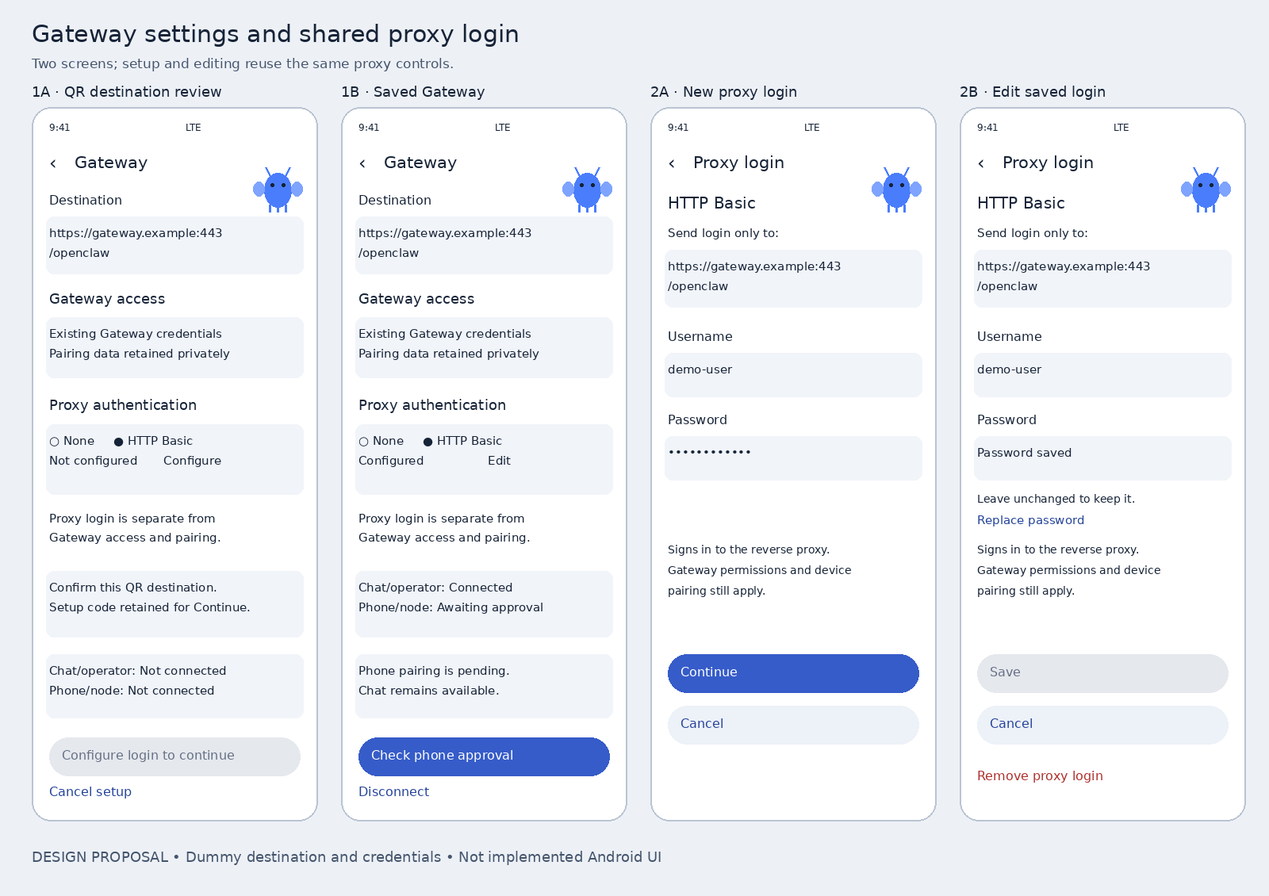
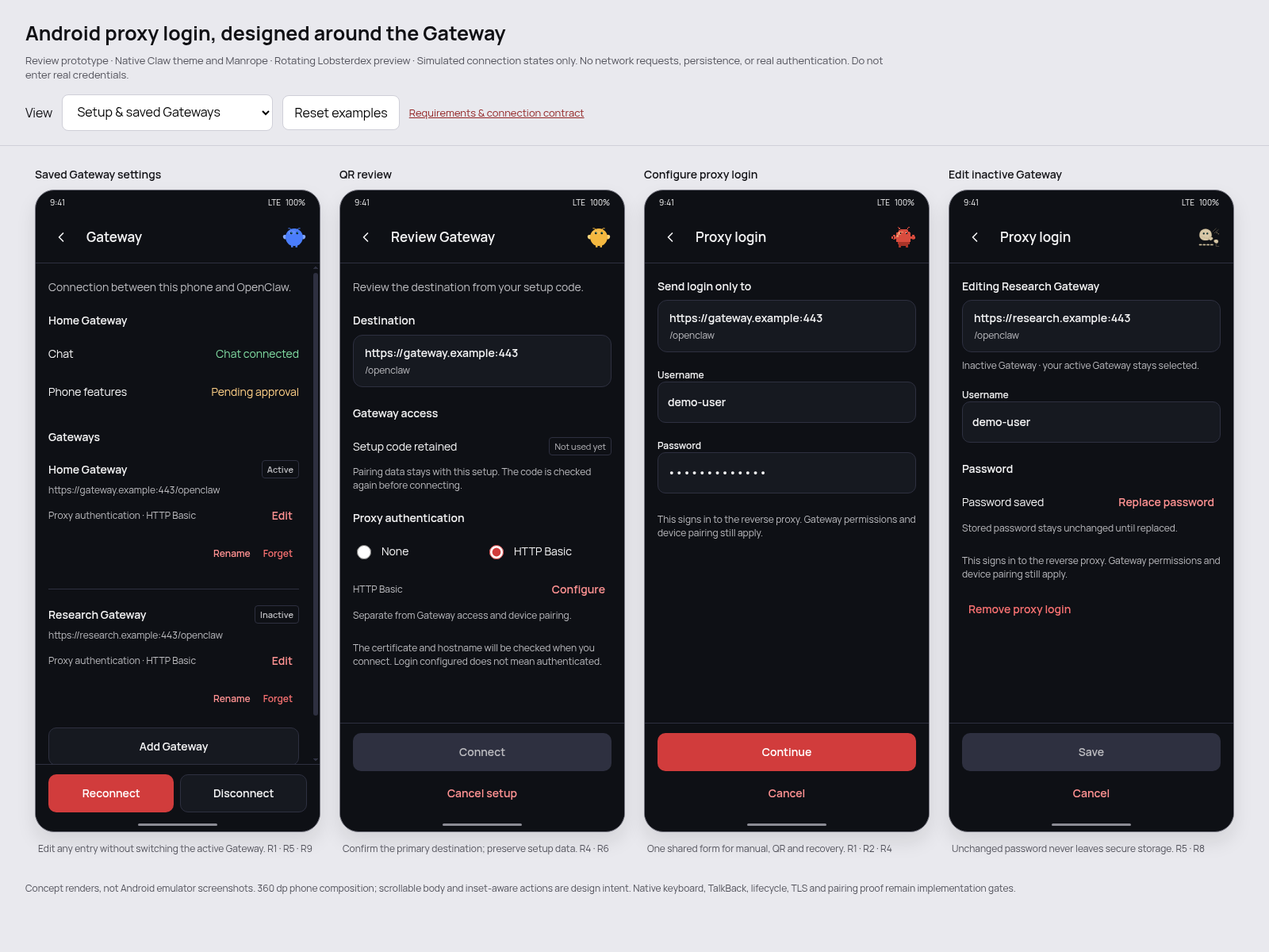
docs(android): align proxy login designs with native Gateway flows

diff --git a/apps/android/design/proxy-login-preview.html b/apps/android/design/proxy-login-preview.html
@@ -1,0 +1,79 @@
+<!doctype html>
+<html lang="en"><head><meta charset="utf-8"><meta name="viewport" content="width=device-width,initial-scale=1"><title>OpenClaw · Android proxy login design</title>
+<style>
+@font-face{font-family:Manrope;src:url('../app/src/main/res/font/manrope_400_regular.ttf');font-weight:400}
+@font-face{font-family:Manrope;src:url('../app/src/main/res/font/manrope_600_semibold.ttf');font-weight:600}
+@font-face{font-family:Manrope;src:url('../app/src/main/res/font/manrope_700_bold.ttf');font-weight:700}
+*{box-sizing:border-box}body{margin:0;font-family:Manrope,sans-serif;background:#e9e9ee;color:#101014}button,select,input{font:inherit}button{cursor:pointer}button:disabled{cursor:default}button:focus-visible,input:focus-visible,select:focus-visible,a:focus-visible{outline:3px solid #0f8f81;outline-offset:3px}header.review{padding:26px 32px 18px;border-bottom:1px solid #cfcfd8}h1{font-size:25px;line-height:1.3;margin:0 0 8px;font-weight:700}header.review p{margin:0;color:#52525b;font-size:13px;max-width:1100px}.tools{display:flex;align-items:center;gap:12px;margin-top:16px;flex-wrap:wrap}.tools select,.tools button{background:white;border:1px solid #cfcfd8;padding:10px 14px;border-radius:8px;min-height:44px}.tools a{color:#922424;font-size:13px}.gallery{display:grid;grid-template-columns:repeat(4,360px);justify-content:center;gap:24px;padding:26px 24px}.specimen>h2{font-size:14px;margin:0 0 10px;font-weight:600}.specimen>p{font-size:12px;line-height:18px;color:#52525b;margin:12px 4px 0}.phone{--canvas:#0e1015;--surface:#161920;--raised:#191c24;--text:#f4f4f5;--muted:#bcbcc0;--subtle:#8b8b94;--border:#2e3040;--primary:#d13c3c;--link:#ff9292;--danger:#f87171;--errorbg:#302126;--success:#80dca2;--warning:#ffd087;--field:#161920;--scale:1;background:var(--canvas);color:var(--text);width:360px;height:810px;border-radius:24px;overflow:hidden;display:flex;flex-direction:column;box-shadow:0 12px 24px #1010141a;border:1px solid #767681}
+.phone.light{--canvas:#f7f7f9;--surface:#fff;--raised:#fff;--text:#101014;--muted:#52525b;--subtle:#61616b;--border:#cfcfd8;--primary:#c23434;--link:#a32c2c;--danger:#b91c1c;--errorbg:#f6e4e5;--success:#15803d;--warning:#925006;--field:#fff}.phone.large{--scale:1.3}.statusbar{height:28px;flex:none;padding:8px 18px 0;display:flex;justify-content:space-between;font-size:10px}.topbar{height:64px;flex:none;display:flex;align-items:center;gap:8px;padding:0 8px;border-bottom:1px solid var(--border)}.topbar h3{font-size:calc(17px * var(--scale));line-height:calc(22px * var(--scale));margin:0;flex:1;font-weight:600}.iconbtn{display:grid;place-items:center;background:none;border:0;color:var(--text);width:48px;height:48px;flex:none}.iconbtn svg{width:20px;height:20px}.mascot{width:30px;height:30px;object-fit:contain}.content{overflow:auto;flex:1;padding:20px 16px 12px;scrollbar-width:thin;scrollbar-color:var(--border) var(--canvas)}.content p{font-size:calc(14px * var(--scale));line-height:1.42;margin:0 0 12px;color:var(--muted)}.section{margin-top:24px}.section:first-child{margin-top:0}.section h4{font-size:calc(14px * var(--scale));line-height:1.3;margin:0 0 8px;font-weight:600}.caption{font-size:calc(12px * var(--scale))!important;line-height:1.4;color:var(--muted)}.destination{padding:12px 14px;background:var(--surface);border:1px solid var(--border);border-radius:12px}.destination strong{font-size:calc(14px * var(--scale));font-weight:600;overflow-wrap:anywhere;display:block;line-height:1.4}.destination span{font-size:calc(12px * var(--scale));overflow-wrap:anywhere;display:block;margin-top:4px;color:var(--muted)}.plainrow{display:flex;align-items:center;justify-content:space-between;gap:12px;min-height:48px;font-size:calc(14px * var(--scale))}.plainrow small{font-size:calc(12px * var(--scale));color:var(--muted)}.divider{border:0;border-top:1px solid var(--border);margin:8px 0}.radios{display:flex;gap:8px;flex-wrap:wrap}.radios label{min-height:48px;display:flex;align-items:center;gap:10px;flex:1;font-size:calc(14px * var(--scale));cursor:pointer}.radios input{accent-color:var(--primary);width:18px;height:18px}.textbtn{background:none;border:none;padding:12px 8px;min-height:48px;color:var(--link);font-size:calc(14px * var(--scale));font-weight:600}.textbtn.danger{color:var(--danger)}.field{margin-top:20px}.field label{display:block;font-size:calc(12px * var(--scale));font-weight:600;margin-bottom:8px}.field input{width:100%;padding:14px 12px;min-height:52px;border:1px solid var(--border);border-radius:10px;background:var(--field);color:var(--text);font-size:calc(14px * var(--scale));line-height:1.3}.field.invalid input{border-color:var(--danger)}.field input:disabled{opacity:.55}.error{margin-top:20px;padding:14px;border-radius:12px;background:var(--errorbg);border:1px solid var(--danger)}.error strong{display:block;font-size:calc(14px * var(--scale));line-height:1.4;color:var(--danger);margin-bottom:6px}.error p{margin:0;font-size:calc(12px * var(--scale));line-height:1.45;color:var(--text)}.neutral{padding:12px 0}.neutral strong{font-size:calc(14px * var(--scale));line-height:1.4;font-weight:600;display:block;margin-bottom:6px}.badge{font-size:11px;color:var(--muted);padding:3px 6px;border:1px solid var(--border);border-radius:4px;white-space:nowrap}.savedentry{padding:12px 0}.entryname{display:flex;align-items:center;justify-content:space-between;font-size:14px;font-weight:600;margin-bottom:6px}.savedentry .address{font-size:12px;line-height:17px;color:var(--muted);overflow-wrap:anywhere;margin:0}.entrytools{display:flex;justify-content:flex-end}.entrytools button{font-size:12px;min-height:48px}.foot{padding:12px 16px 8px;border-top:1px solid var(--border);background:var(--canvas);flex:none}.primary,.secondary{width:100%;min-height:48px;border-radius:10px;font-size:calc(14px * var(--scale));font-weight:600;padding:12px;border:0;line-height:calc(20px * var(--scale))}.primary{background:var(--primary);color:#fff}.primary:disabled{background:var(--border);color:var(--muted)}.secondary{background:var(--surface);border:1px solid var(--border);color:var(--text)}.foot .textbtn{display:block;margin:4px auto 0;min-height:48px}.foot .twocol{display:flex;gap:8px}.gesture{height:16px;display:flex;justify-content:center;align-items:center;flex:none}.gesture:after{content:'';width:100px;height:3px;background:var(--subtle);border-radius:4px}.role{display:flex;align-items:flex-start;justify-content:space-between;gap:16px;padding:12px 0;font-size:14px}.role .detail{display:block;font-size:12px;color:var(--muted);margin-top:4px;line-height:17px}.ok{color:var(--success)}.waiting{color:var(--warning)}.stage{display:flex;gap:12px;align-items:flex-start;padding:10px 0;font-size:13px;line-height:18px}.stage svg{flex:none;width:18px;height:18px;margin-top:1px}.stage small{display:block;color:var(--muted);font-size:12px;margin-top:3px}.stage.pending{color:var(--muted)}.scrollhint{font-size:11px;color:var(--muted);margin:10px 0}.reviewfooter{padding:6px 32px 24px;font-size:12px;color:#52525b}.toast{position:fixed;bottom:16px;left:50%;transform:translateX(-50%);max-width:90vw;background:#161920;color:#f4f4f5;padding:14px 20px;border-radius:10px;font-size:13px;z-index:4}.toast button{background:none;border:0;color:#ff9292;margin-left:14px;min-height:32px}.is-hidden{display:none}
+@media(max-width:1500px){.gallery{grid-template-columns:repeat(2,360px)}}@media(max-width:780px){.gallery{grid-template-columns:minmax(0,360px);padding:20px 8px}.phone{max-width:100%}header.review{padding:20px 16px}.reviewfooter{padding:16px}}
+</style></head><body>
+<header class="review"><h1>Android proxy login, designed around the Gateway</h1><p>Review prototype · Native Claw theme and Manrope · Rotating Lobsterdex preview · Simulated connection states only. No network requests, persistence, or real authentication. Do not enter real credentials.</p><div class="tools"><label for="board">View</label><select id="board"><option value="overview">Setup & saved Gateways</option><option value="recovery">Login & connection recovery</option><option value="errors">TLS, access & setup errors</option><option value="policy">HTTP, role & setup rejection</option><option value="variants">Light, large text & Lobsterdex</option></select><button id="reset">Reset examples</button><a href="../PROXY_LOGIN_DESIGN.md">Requirements & connection contract</a></div></header><main class="gallery" id="gallery"></main><footer class="reviewfooter">Concept renders, not Android emulator screenshots. 360 dp phone composition; scrollable body and inset-aware actions are design intent. Native keyboard, TalkBack, lifecycle, TLS and pairing proof remain implementation gates.</footer><div class="toast is-hidden" id="toast" role="status"></div>
+<script>
+'use strict';
+const $=s=>document.querySelector(s);
+const icon=(name)=>{const p={back:'M15 18l-6-6 6-6',check:'M5 12l4 4L19 6',circle:'M20 12a8 8 0 1 1-8-8',qr:'M3 3h6v6H3z M15 3h6v6h-6z M3 15h6v6H3z M15 15h2v2h-2z M19 19h2v2h-2z',close:'M6 6l12 12M18 6L6 18'};return `<svg aria-hidden="true" viewBox="0 0 24 24" fill="none" stroke="currentColor" stroke-width="2" stroke-linecap="round" stroke-linejoin="round"><path d="${p[name]||p.circle}"/></svg>`};
+const origin='https://gateway.example:443',mount='/openclaw';
+function dest(long=false){return `<div class="destination"><strong>${long?'https://gateway-research-lab.example:443':origin}</strong><span>${long?'/teams/mobile-research/openclaw':mount}</span></div>`}
+function btn(s,action,kind='primary',disabled=false){return `<button class="${kind}" data-act="${action}" ${disabled?'disabled':''}>${s}</button>`}
+function row(mode='basic',draft=false){return `<section class="section"><h4>Proxy authentication</h4><div class="radios" role="radiogroup" aria-label="Proxy authentication"><label><input type="radio" name="mode-${++serial}" ${mode==='none'?'checked':''} data-act="none">None</label><label><input type="radio" name="mode-${serial}" ${mode==='basic'?'checked':''} data-act="configure">HTTP Basic</label></div><div class="plainrow"><small>${mode==='none'?'No proxy login':draft?'Login configured · not connected':'HTTP Basic'}</small>${btn(mode==='none'?'Configure':draft?'Edit':'Configure',draft?'new':'new','textbtn')}</div><p class="caption">Separate from Gateway access and device pairing.</p></section>`}
+function credentials(edit=false,wrong=false,remove=false,long=false){return `<section class="section"><h4>${edit?'Editing Research Gateway':'Send login only to'}</h4>${dest(long)}${edit?'<p class="caption" style="margin-top:8px">Inactive Gateway · your active Gateway stays selected.</p>':''}</section><div class="field"><label>Username<input type="text" value="demo-user" autocomplete="off" autocapitalize="none" spellcheck="false" ${remove?'disabled':''} aria-label="Proxy username" data-field="username"></label></div>${edit?`<section class="section"><h4>Password</h4><div class="plainrow"><span>Password saved</span>${remove?'':btn('Replace password','replace','textbtn')}</div><p class="caption">Stored password stays unchanged until replaced.</p></section>`:`<div class="field ${wrong?'invalid':''}"><label>Password<input type="password" value="dummy-preview" autocomplete="off" ${remove?'disabled':''} aria-label="Proxy password" data-field="password" ${wrong?'aria-invalid="true" aria-describedby="proxy-error"':''}></label></div>`}<section class="section"><p class="caption">This signs in to the reverse proxy. Gateway permissions and device pairing still apply.</p></section>${wrong?`<div class="error" id="proxy-error" role="status"><strong>Proxy login was not accepted.</strong><p>Check your username and password, then continue. No automatic password retries.</p></div>`:''}${remove?`<div class="error" role="status"><strong>Remove proxy login?</strong><p>Device pairing stays saved. This Gateway may require a proxy login before it can reconnect.</p></div>`:''}${edit&&!remove?btn('Remove proxy login','remove','textbtn danger'):''}`}
+function roles(complete=false){return `<section class="section"><h4>Connections</h4><div class="role"><span>Chat<span class="detail">Gateway access accepted</span></span><span class="ok">Connected</span></div><hr class="divider"><div class="role"><span>Phone features<span class="detail">${complete?'Device pairing accepted':'Approve this phone in the Gateway.'}</span></span><span class="${complete?'ok':'waiting'}">${complete?'Connected':'Pending approval'}</span></div></section>`}
+const errors={tls:['Secure connection could not be verified.','Check the certificate and Gateway address. Proxy credentials were not sent.','Check address'],network:['Cannot reach this Gateway.','Automatic retries have stopped. Check your connection, then retry.','Retry'],identity:['Gateway requires a verified user identity.','Ask the administrator to check proxy identity forwarding and Gateway policy.','View guidance'],expired:['Setup code has expired.','Create a new setup code. Your saved Gateway pairing has not been removed.','Scan new code'],setup_rejected:['Setup code was rejected.','The Gateway could not accept this setup. Request a new code; the cause may be expiry, prior use, or revocation.','Scan new code'],unknown:['Access was rejected before the Gateway connected.','HTTP 403. Ask the administrator to check access policy. This does not confirm a wrong proxy password.','View guidance'],rejected:['Gateway access was rejected.','The Gateway rejected this account or its role. Proxy login cannot grant additional permissions.','View guidance']};
+function errorBody(kind){let e=errors[kind];return `<section class="section"><h4>Destination</h4>${dest()}</section><section class="section"><h4>Proxy authentication</h4><p>HTTP Basic · login configured</p></section><div class="error" role="status"><strong>${e[0]}</strong><p>${e[1]}</p></div><section class="section"><h4>Connections</h4><div class="plainrow"><span>Chat</span><small>Not connected</small></div><div class="plainrow"><span>Phone features</span><small>Not connected</small></div></section>`}
+function stages(which){return `<section class="section"><h4>Destination</h4>${dest()}</section><section class="section"><h4>${which==='tls'?'Connecting securely':which==='proxy'?'Signing in to proxy':'Connecting to Gateway'}</h4><p class="caption">Cancel stops this attempt. Saved pairing stays intact.</p>${[['tls','Secure connection',which==='tls'?'Checking certificate and hostname':'Certificate and hostname verified'],['proxy','Proxy login',which==='tls'?'Waiting for secure connection':which==='proxy'?'Checking login':'Accepted by proxy'],['roles','Gateway access',which==='roles'?'Checking Chat and Phone independently':'Not checked yet']].map(([id,title,detail],i)=>`<div class="stage ${i>(which==='tls'?0:which==='proxy'?1:2)?'pending':''}">${icon(i<(which==='tls'?0:which==='proxy'?1:2)?'check':'circle')}<span>${title}<small>${detail}</small></span></div>`).join('')}</section><section class="section"><h4>Connections</h4><div class="plainrow"><span>Chat</span><small>Not connected</small></div><div class="plainrow"><span>Phone features</span><small>Not connected</small></div></section>`}
+function registry(){return `<p>Connection between this phone and OpenClaw.</p><section class="section"><h4>Home Gateway</h4><div class="plainrow"><span>Chat</span><span class="ok">Chat connected</span></div><div class="plainrow"><span>Phone features</span><span class="waiting">Pending approval</span></div></section><section class="section"><h4>Gateways</h4><div class="savedentry"><div class="entryname">Home Gateway <span class="badge">Active</span></div><p class="address">${origin}${mount}</p><div class="plainrow"><small>Proxy authentication · HTTP Basic</small>${btn('Edit','edit_active','textbtn')}</div><div class="entrytools">${btn('Rename','notice','textbtn')}${btn('Forget','notice','textbtn danger')}</div></div><hr class="divider"><div class="savedentry"><div class="entryname">Research Gateway <span class="badge">Inactive</span></div><p class="address">https://research.example:443/openclaw</p><div class="plainrow"><small>Proxy authentication · HTTP Basic</small>${btn('Edit','edit','textbtn')}</div><div class="entrytools">${btn('Rename','notice','textbtn')}${btn('Forget','notice','textbtn danger')}</div></div></section>${btn('Add Gateway','qr','secondary')}<p class="caption" style="margin-top:12px">Scan or paste a setup code to add another Gateway.</p>`}
+function gatewayReview(manual=false,draft=false){return `<p>${manual?'Review the address before connecting.':'Review the destination from your setup code.'}</p><section class="section"><h4>Destination</h4>${dest()}</section><section class="section"><h4>Gateway access</h4>${manual?'<p class="caption">Existing token/password controls stay here, separate from proxy login.</p>':'<div class="plainrow"><span>Setup code retained</span><span class="badge">Not used yet</span></div><p class="caption">Pairing data stays with this setup. The code is checked again before connecting.</p>'}</section>${row('basic',draft)}<section class="section"><p class="caption">The certificate and hostname will be checked when you connect. Login configured does not mean authenticated.</p></section>`}
+let serial=0;
+const configs={
+ registry:['Saved Gateway settings','Gateway',registry,()=>`<div class="twocol">${btn('Reconnect','connecting_tls')}${btn('Disconnect','cancel','secondary')}</div>`,'Edit any entry without switching the active Gateway. R1 · R5 · R9'],
+ qr:['QR review','Review Gateway',()=>gatewayReview(false,false),()=>btn('Connect','connecting_tls','primary',true)+btn('Cancel setup','cancel','textbtn'),'Confirm the primary destination; preserve setup data. R4 · R6'],
+ manual:['Manual review','Review Gateway',()=>gatewayReview(true,true),()=>btn('Connect','connecting_tls')+btn('Cancel setup','cancel','textbtn'),'Same proxy row; existing Gateway fields remain separate. R1 · R2 · R10'],
+ qr_ready:['Resume QR setup','Review Gateway',()=>gatewayReview(false,true),()=>btn('Connect','connecting_tls')+btn('Cancel setup','cancel','textbtn'),'Continue stages login; Connect admits the retained setup. R5 · R6'],
+ new:['Configure proxy login','Proxy login',()=>credentials(),()=>btn('Continue','continue')+btn('Cancel','cancel_form','textbtn'),'One shared form for manual, QR and recovery. R1 · R2 · R4'],
+ edit:['Edit inactive Gateway','Proxy login',()=>credentials(true),()=>btn('Save','save','primary',true)+btn('Cancel','cancel_form','textbtn'),'Unchanged password never leaves secure storage. R5 · R8'],
+ edit_active:['Edit active Gateway','Proxy login',()=>credentials(true).replace('Research Gateway','Home Gateway').replace('Inactive Gateway · your active Gateway stays selected.','Active Gateway · enabled connections will reconnect.'),()=>btn('Save','save','primary',true)+btn('Cancel','cancel_form','textbtn'),'Save replaces proxy state and drains enabled sessions. R5 · R8'],
+ replace:['Replace saved password','Proxy login',()=>credentials(false).replace('Send login only to','Editing Research Gateway'),()=>btn('Save','save')+btn('Cancel','cancel_form','textbtn'),'Valid edit can be saved independently of connection success. R5'],
+ wrong:['Proxy login rejected','Proxy login',()=>credentials(false,true),()=>btn('Continue','continue')+btn('Cancel','cancel_form','textbtn'),'Stable error; explicit submission only. R7 · R8'],
+ remove:['Remove proxy login','Proxy login',()=>credentials(true,false,true),()=>btn('Remove proxy login','removed')+btn('Keep proxy login','keep_login','textbtn'),'Durable removal retires grants, preserves pairing. R5 · R8'],
+ partial:['Chat works; Phone pending','Gateway',()=>`<section class="section"><h4>Home Gateway</h4>${dest()}</section>${roles()}<section class="section"><h4>Phone approval is pending</h4><p class="caption">Chat remains available. Cancel waiting stops Phone checks for this attempt.</p></section>`,()=>btn('Check Phone approval','notice')+btn('Cancel waiting','cancel_phone','textbtn'),'Independent role/token/pairing results. R3 · R8 · R9'],
+ connected:['Gateway connections accepted','Gateway',()=>`<section class="section"><h4>Home Gateway</h4>${dest()}</section>${roles(true)}`,()=>btn('Done','registry'),'Only Gateway admission establishes readiness. R3 · R9'],
+ connecting_tls:['Verified TLS first','Gateway',()=>stages('tls'),()=>btn('Cancel attempt','cancel','secondary'),'No credentials before certificate/hostname validation. R4 · R8'],
+ connecting_proxy:['Caddy proxy gate','Gateway',()=>stages('proxy'),()=>btn('Cancel attempt','cancel','secondary'),'Basic to Caddy only; upstream stripping is required. R2 · R3'],
+ connecting_roles:['Independent Gateway admission','Gateway',()=>stages('roles'),()=>btn('Cancel attempt','cancel','secondary'),'Accepted proxy login cannot bypass roles or pairing. R3 · R9'],
+};
+for(const kind of Object.keys(errors))configs[kind]=[errors[kind][0].replace('.',''),'Gateway',()=>errorBody(kind),()=>btn(errors[kind][2],kind==='network'?'connecting_tls':(kind==='expired'||kind==='setup_rejected')?'scan':'notice')+btn('Cancel attempt','cancel','textbtn'),kind==='expired'?'Known payload expiry, distinct from opaque setup rejection. R6 · R7':'Typed failure, terminal pause, explicit recovery. R4 · R7 · R8'];
+configs.configure_saved=['Configure saved Gateway proxy login','Proxy login',()=>credentials(false).replace('Send login only to','Editing Research Gateway'),()=>btn('Save','save')+btn('Cancel','cancel_form','textbtn'),'Save affects only this existing Gateway; pairing stays saved. R4 · R5'];
+configs.qr_none=['QR review · no proxy login','Review Gateway',()=>gatewayReview(false,false),()=>btn('Connect','connecting_tls')+btn('Cancel setup','cancel','textbtn'),'None remains supported without protocol auth changes. R10'];
+configs.qr_none[2]=()=>gatewayReview(false,false).replace(/<section class="section"><h4>Proxy authentication[\s\S]*?<\/section>/,row('none'));
+configs.manual_none=['Manual review · no proxy login','Review Gateway',()=>gatewayReview(true,false).replace(/<section class="section"><h4>Proxy authentication[\s\S]*?<\/section>/,row('none')),()=>btn('Connect','connecting_tls')+btn('Cancel setup','cancel','textbtn'),'Manual None path preserves existing Gateway auth. R10'];
+configs.manual_ready=['Resume manual setup','Review Gateway',()=>gatewayReview(true,true),()=>btn('Connect','connecting_tls')+btn('Cancel setup','cancel','textbtn'),'Retains original manual Gateway access. R1 · R2 · R10'];
+configs.registry_removed=['Proxy login removed','Gateway',()=>registry().replace('Proxy authentication · HTTP Basic</small>'+btn('Edit','edit','textbtn'),'Proxy authentication · None</small>'+btn('Configure','configure_research','textbtn')),()=>btn('Done','registry'),'Proxy login removed; pairing remains saved. R5 · R8'];
+configs.partial_cancelled=['Phone wait cancelled','Gateway',()=>configs.partial[2]().replace('Pending approval','Wait cancelled').replace('Approve this phone in the Gateway.','Phone approval remains pending at the Gateway.').replace('Phone approval is pending','Phone checks stopped').replace('Chat remains available. Cancel waiting stops Phone checks for this attempt.','Chat remains available. Check again starts a new bounded wait.'),()=>btn('Check again','partial')+btn('Done','registry','textbtn'),'Cancellation does not revoke server pairing or disconnect Chat. R8 · R9'];
+const boards={overview:[['registry'],['qr'],['new'],['edit']],recovery:[['wrong'],['connecting_proxy'],['partial'],['remove']],errors:[['tls'],['network'],['identity'],['expired']],policy:[['unknown'],['rejected'],['setup_rejected'],['connecting_roles']],variants:[['qr_ready','light'],['new','light'],['new','large'],['edit','egg']]};
+const mascots=['mascot-blue.svg','mascot-gold.svg','mascot-pixel.svg','mascot-flatpack.svg','mascot-crimson.svg']; let mascotOffset=0; let current=[]; const drafts=new Map();
+function render(only){serial=0;const pieces=current.map(([mode,variant],i)=>{const ctx=current[i][2];if(mode==='edit_active')ctx.entry='active';if(mode==='edit')ctx.entry='research';let c=configs[mode];let body=c[2]();if(variant==='large')body=credentials(false,false,false,true)+`<p class="scrollhint">Large text · scroll to continue reading.</p>`;if(['edit','edit_active','replace','remove','configure_saved'].includes(mode)){if(ctx.entry==='active'){body=body.replaceAll('Research Gateway','Home Gateway').replace('Inactive Gateway · your active Gateway stays selected.','Active Gateway · enabled connections will reconnect.');}else{body=body.replaceAll(origin,'https://research.example:443');}}if(mode==='registry_removed'&&ctx.entry==='active'){body=registry().replace('Proxy authentication · HTTP Basic</small>'+btn('Edit','edit_active','textbtn'),'Proxy authentication · None</small>'+btn('Configure','configure_active','textbtn')).replace('class="ok">Chat connected','class="badge">Not connected').replace('class="waiting">Pending approval','class="badge">Not connected');}return `<article class="specimen" data-index="${i}"><h2>${c[0]}${variant==='light'?' · light':variant==='large'?' · 130% text':variant==='egg'?' · Lobsterdex option':''}</h2><div class="phone ${variant||''}"><div class="statusbar"><span>9:41</span><span>LTE &nbsp; 100%</span></div><div class="topbar"><button class="iconbtn" data-act="back" aria-label="Back">${icon('back')}</button><h3 tabindex="-1">${c[1]}</h3><button class="iconbtn" data-act="mascot" aria-label="Preview alternate mascot"><img class="mascot" src="${mascots[(i+mascotOffset)%mascots.length]}" alt=""></button></div><div class="content">${body}</div><div class="foot">${c[3]()}</div><div class="gesture"></div></div><p>${c[4]}</p></article>`}); if(Number.isInteger(only)){const old=$('#gallery').children[only];old.outerHTML=pieces[only];restore(only);$('#gallery').children[only].querySelector('h3').focus({preventScroll:true});}else{$('#gallery').innerHTML=pieces.join('');current.forEach((_,i)=>restore(i));}}
+function board(value){mascotOffset=Object.keys(boards).indexOf(value);$('#board').value=value;drafts.clear();current=boards[value].map(x=>[x[0],x[1],{}]);render()}
+function toast(s){$('#toast').innerHTML=`${s}<button data-dismiss>Dismiss</button>`;$('#toast').classList.remove('is-hidden')}
+function restore(i){const el=$('#gallery').children[i],mode=current[i][0];let draft=drafts.get(i);if(mode==='replace'&&!draft){draft={username:'demo-user',password:''};drafts.set(i,draft);}if(draft){for(const key of ['username','password']){const input=el.querySelector(`[data-field="${key}"]`);if(input)input.value=draft[key]||'';}}validate(i);}
+function validate(i){const el=$('#gallery').children[i],mode=current[i][0],user=el.querySelector('[data-field="username"]'),pw=el.querySelector('[data-field="password"]');const primary=el.querySelector('.foot .primary');if(!user||!primary||mode==='remove')return;let valid=Boolean(user.value.trim())&&Boolean(pw&&pw.value);if(mode==='edit'||mode==='edit_active')valid=false;primary.disabled=!valid;}
+$('#gallery').addEventListener('input',e=>{const el=e.target.closest('.specimen');if(!el||!e.target.matches('[data-field]'))return;const i=Number(el.dataset.index);let draft=drafts.get(i)||{username:'demo-user',password:''};for(const key of ['username','password']){const input=el.querySelector(`[data-field="${key}"]`);if(input)draft[key]=input.value;}drafts.set(i,draft);validate(i);});
+$('#gallery').addEventListener('click',e=>{const b=e.target.closest('[data-act]');if(!b)return;const a=b.dataset.act,el=b.closest('.specimen'),i=Number(el.dataset.index),mode=current[i][0],ctx=current[i][2];if(a==='mascot'){let img=b.querySelector('img');const old=img.src.split('/').pop();img.src=mascots[(mascots.indexOf(old)+1)%mascots.length];return;}
+let next=a;
+if(a==='notice'||a==='scan'){toast(a==='scan'?'Demo: scanner would reopen. No camera or network is used.':'Demo action only. See the design document for the required Gateway behavior.');return;}
+if(a==='configure_active'||a==='configure_research'){ctx.parent=mode;ctx.entry=a==='configure_active'?'active':'research';next='configure_saved';}
+if(a==='configure'||a==='new'){ctx.parent=mode;ctx.origin=mode.startsWith('manual')?'manual':mode==='wrong'?'recovery':'qr';next='new';}
+if(a==='none'){next=mode.startsWith('manual')?'manual_none':'qr_none';drafts.delete(i);}
+if(a==='continue'){next=(ctx.origin==='recovery'||mode==='wrong')?'connecting_tls':ctx.origin==='manual'?'manual_ready':'qr_ready';drafts.delete(i);}
+if(a==='replace'){ctx.parent=mode;ctx.editing=true;const user=el.querySelector('[data-field="username"]');drafts.set(i,{username:user?user.value:'demo-user',password:''});next='replace';}
+if(a==='edit'||a==='edit_active'){ctx.parent='registry';ctx.entry=a==='edit_active'?'active':'research';ctx.editing=true;next=a;}
+if(a==='remove'){ctx.removeParent=mode;next='remove';}if(a==='keep_login'){next=ctx.removeParent||'edit';}
+if(a==='cancel_form'||a==='back'){next=(mode==='remove'?ctx.removeParent:ctx.parent)||(mode==='new'?'qr':mode==='wrong'?'registry':'registry');drafts.delete(i);}
+if(a==='cancel'){next='registry';drafts.delete(i);}
+if(a==='save'){next='registry';drafts.delete(i);toast('Simulated: login saved. Gateway connection has not been verified.');}
+if(a==='removed'){next='registry_removed';drafts.delete(i);toast('Simulated: proxy login removed; device pairing retained.');}
+if(a==='cancel_phone'){next='partial_cancelled';toast('Simulated: Phone wait cancelled; Chat remains connected.');}
+
+if(!Object.hasOwn(configs,next)){toast('This action is specified in the design document.');return;}current[i][0]=next;render(i);
+});$('#toast').addEventListener('click',()=>$('#toast').classList.add('is-hidden'));$('#board').addEventListener('change',()=>board($('#board').value));$('#reset').addEventListener('click',()=>board($('#board').value));const q=new URLSearchParams(location.search).get('board');board(Object.hasOwn(boards,q)?q:'overview');
+</script></body></html>

diff --git a/apps/android/PROXY_LOGIN_DESIGN.md b/apps/android/PROXY_LOGIN_DESIGN.md
@@ -91,20 +91,37 @@ configuration. These are separate from Gateway protocol authentication.
 
 ## Two screen wireframes
 
-These are conceptual wireframes, not screenshots of implemented UI. The drawn
-boards use synthetic destinations and credentials; colors and spacing are proposals,
-not a claim that the current Android theme renders this way.
+These are design renders and text wireframes, not screenshots of implemented
+Android UI. The earlier blue-pill boards have been replaced with the incumbent
+Android Claw visual system: bundled Manrope, default dark and companion light
+palettes, red primary actions, 10 dp controls, 12 dp panels, and 48 dp targets.
+The proposal preserves the existing Gateway settings registry and its Rename,
+Forget, Reconnect, Disconnect, and Add Gateway boundaries. It adds scoped proxy
+controls rather than replacing the screen with a new login visual identity.
 
-![Gateway setup, saved Gateway editing, and shared proxy login](design/proxy-login-overview.png)
+[Open the offline review prototype](design/proxy-login-preview.html). Its controls
+use dummy data and simulated transitions only; it sends no requests and stores
+nothing durably. The review wrapper and requirement annotations are outside the
+proposed Android screens. Browser pixels approximate native dp/sp; the renders do
+not prove native layout, keyboard, TalkBack, TLS, or Gateway behavior.
 
-![Rejected proxy login, removal confirmation, and setup recovery](design/proxy-login-recovery.png)
+![Gateway settings, QR review, and shared proxy login](design/proxy-login-overview.png)
+
+![Proxy rejection, Caddy connection stage, partial pairing, and removal](design/proxy-login-recovery.png)
+
+![TLS, network, identity, and known setup expiry](design/proxy-login-errors.png)
+
+![Unknown HTTP rejection, Gateway role rejection, opaque setup rejection, and admission](design/proxy-login-policy.png)
+
+![Light theme, large text, long destination, and rotating Lobsterdex previews](design/proxy-login-variants.png)
 
 ### Layout and interaction detail
 
 The boards depict two screen types with state variants, not additional navigation
 screens. Manual setup uses the same destination review and proxy row as QR review.
 Existing endpoint and Gateway credential controls remain owned by their current
-containers; the shaded Gateway-access block is a placeholder for those controls.
+containers; review renders describe that retained access rather than introducing
+proxy inputs into the Gateway credential fields.
 
 - Destination: show the confirmed scheme, host, effective port, and mount path in a
   wrapping, read-only block. Do not truncate away the host or route; long destinations
@@ -144,26 +161,95 @@ containers; the shaded Gateway-access block is a placeholder for those controls.
   landscape/foldable layouts wrap rather than clip. Removal is identified by text,
   not color alone. Screen readers announce saved-password status without a secret.
 
-### Optional Lobsterdex detail
+### Lobsterdex detail
 
-The rendered option replaces the decorative claw mark with a small static blue
-lobster, using the existing `blue` shell/claw colors in
-[`lobster-pet-palettes.ts`](../../ui/src/components/lobster-pet-palettes.ts).
-The drawn silhouette is a concept, not an exact port of the Control UI sprite.
-A final native asset must reuse approved artwork or receive artwork approval.
+The preview rotates a different character across each specimen and shifts the
+sequence across screenshot boards. Blue, Gold, Pixel, Flatpack, and Crimson are
+source-derived assets, not new hand-drawn silhouettes. Their small static presence
+in the trailing header keeps the existing layout, colors, and component vocabulary.
+Changing a character never communicates connection or security status.
 
-Proposed Easter egg: tapping the decorative mascot five times cycles a small
-approved Lobsterdex character set for this screen visit. Keep the selection in
-memory only; no new storage, network fetch, discovery tracking, or credential-derived
-selection. The default remains the normal brand mark unless this optional detail
-is approved. Expose an accessible “Change mascot” action so the hidden gesture is
-not the only way to use it. Mascot changes must not move fields, discard input,
-start connections, or change error/status announcements. Keep it static during
-entry and errors; respect reduced motion if animation is approved later. The
-mascot never represents TLS trust, login success, or Gateway permissions.
+- Blue, Gold, and Crimson use neutral `renderLobsterSvg` dome/claws/eyes from
+  [`lobster-pet-look.ts`](../../ui/src/components/lobster-pet-look.ts) with perky
+  antennae from [`lobster-pet-sprites.ts`](../../ui/src/components/lobster-pet-sprites.ts).
+  Their shell/claw colors come from
+  [`lobster-pet-palettes.ts`](../../ui/src/components/lobster-pet-palettes.ts).
+- Pixel uses that source's `PIXEL_LOBSTER` geometry; Flatpack uses
+  [`FLATPACK_LOBSTER`](../../ui/src/components/lobster-pet-sprites-wild.ts).
+  Open eyes are frozen for deterministic renders. No product code is executed to
+  build the design assets.
+- The normal brand asset is the static geometry from
+  [`favicon.svg`](../../ui/public/favicon.svg), already owned natively by
+  [`OpenClawMascot.kt`](app/src/main/java/ai/openclaw/app/ui/design/OpenClawMascot.kt).
+  It remains available as the baseline; character rotation is a proposed option.
 
-This is a separable design option, not a requirement for the proxy-login fix.
-The renders preview the alternate mascot enabled.
+Proposed Easter egg: the chosen decorative character remains stable for the current
+screen visit and rotates on the next visit, rather than changing during credential
+entry, retry, or error rendering. A five-tap gesture may advance it, with an
+accessible Change mascot action as the alternative. Preview taps advance immediately
+to make the option reviewable. Keep selection in memory only: no new persistence,
+network fetch, collection tracking, credential-derived seed, or navigation effect.
+Do not move fields, discard input, trigger connections, or change error announcements.
+Keep it static and respect reduced motion if animation is approved later. This is
+separable from the login fix and still needs approval before native implementation.
+
+### Connection contract attached to the screens
+
+Configured, saved, proxy accepted, and Gateway connected are distinct facts.
+The following is the intended flow; the prototype only displays its states.
+
+```mermaid
+flowchart TD
+    A[Manual or QR destination review] --> B[Proxy login draft or existing destination-scoped record]
+    B --> C[Explicit Connect with current plan and credential revision]
+    C --> D[Verify TLS certificate and hostname]
+    D --> E[Caddy authenticates HTTP Basic]
+    E --> F[Caddy strips Basic Authorization and forwards established identity]
+    F --> G[Gateway verifies trusted ingress and identity]
+    G --> H[Chat: operator auth and scopes]
+    G --> I[Phone: node auth and pairing]
+    H --> J[Chat status]
+    I --> K[Phone status]
+    D --> L[TLS failure: stop before sending credentials]
+    E --> M[Proxy rejection: stable login recovery]
+    G --> N[Gateway identity or role rejection: policy recovery]
+    I --> O[Pairing pending: bounded wait and cancel]
+```
+
+| Screen or action | Required connection outcome | Existing owner and acceptance IDs |
+| --- | --- | --- |
+| Review destination | Show full origin, effective port, and mount. User review does not assert TLS verification. No credential-bearing I/O before confirmation. | Resolver and connection plan; R4/R6 |
+| None / HTTP Basic | Keep proxy intent separate from Gateway auth. None retains its existing transport and credential contracts. | Shared proxy row and plan; R1/R2/R10 |
+| Continue in manual or QR | Stage a heap-only draft and return to its original reviewed setup. Keep bootstrap/token/password and expiry metadata unchanged. Display Login configured, not Authenticated. | Existing onboarding/addition plan; R5/R6 |
+| Save an existing entry | Commit only proxy credentials, retire old grants/sockets/media capabilities, reconnect only that entry's enabled sessions. Do not switch an inactive entry into focus. Storage failure preserves previous credentials. | SecurePrefs and existing runtime lifecycle; R5/R8 |
+| Connecting securely | Verify CA and hostname on the actual socket; HTTPS text and a QR fingerprint alone do not establish trust. Fail before releasing Basic. | GatewayTls and ingress grant; R4/R7 |
+| Signing in to proxy | Basic reaches only the confirmed Caddy route. Caddy accepts it and strips Authorization before forwarding to the Gateway on upgrades and HTTP/media routes. | Destination-bound ingress contract and Caddy fixture; R2/R3 |
+| Connecting to Gateway | Proxy acceptance does not establish roles/scopes or pairing. Gateway owns trusted identity and admission; Android never manufactures identity headers. | Gateway auth and admission; R3/R9 |
+| Chat status | Independently reflect the operator handshake, role token, effective scopes, and rejection reason. | ConnectionManager operator and Gateway admission; R3/R9 |
+| Phone features status | Independently reflect node handshake and approval. Chat can remain connected while Phone waits. Cancel waiting stops the owned Phone wait, not accepted Chat or server-side pending pairing. | Node session and pairing owner; R8/R9 |
+| Proxy login rejected | Require a parsed Basic challenge to identify this failure. No automatic password retries. Keep the destination visible and offer explicit edit/retry/cancel. | Typed transport error and runtime pause; R7/R8 |
+| TLS / redirect / unknown HTTP / Gateway errors | Different messages and actions; no trust bypass, redirect following, fabricated identity, shared-token fallback, or inferred wrong password. | TLS, ingress, and structured Gateway errors; R4/R7 |
+| Expired or rejected setup | Known payload expiry can say expired. Opaque bootstrap rejection must say rejected. Recheck validity after proxy entry and before any resumed attempt. | Parser metadata and server bootstrap contract; R6/R7 |
+| Remove | Durable deletion retires this destination's capabilities. Keep registry entry, Gateway secrets, and pairing; show that protected access may require login again. | SecurePrefs and lifecycle owner; R5/R8 |
+| Reconnect or background wake | Revalidate destination/revision; honor the same terminal pause and bounded retry budget. Background work never repeatedly opens login UI. | Existing ConnectionManager/NodeRuntime/GatewaySession lifecycle; R8/R9 |
+
+### Design review evidence and limits
+
+Impeccable 4.4.0 was installed user-wide, outside this PR. Its repaired launcher
+loaded incumbent context; the design pass used Operate, Android, craft-floor, and
+polish guidance. Independent visual, Android interaction/accessibility, and Gateway
+contract reviewers identified and corrected theme drift, misleading saved/authenticated
+states, None selection, parent-flow recovery, edit validity, focus retention, and
+incomplete large-text scaling. Its mechanical HTML detector returned zero findings
+on the first refined prototype; that result is not native or security proof.
+
+The offline prototype was exercised with dummy inputs through real browser controls:
+None selection, manual/QR resume, replacement validity, unaffected-panel draft
+retention, focus restoration, cancellation, pairing-preserving removal, and scaled
+labels passed 22 focused checks in approximately 0.65 seconds. These checks validate
+only the review artifact. They are not the isolated Android/Caddy/Gateway tests
+specified below, and no QR end-to-end, upgrade, or actual connection success is
+claimed. Native screenshots and behavior proof remain pending implementation.
 
 Drawn boards show selected states; the implementation must also verify None,
 validation, saving, TLS/network/Gateway rejection, expired-code, and cancellation
@@ -215,7 +301,7 @@ Username
 [                                      ]
 Password
 [ ••••••••••••••••••••••••••••••••••• ]
-# Edit: “Password saved; leave unchanged to keep it.”
+# Edit: plain “Password saved” status + [Replace password]
 
 This signs in to the reverse proxy.
 Gateway permissions and device pairing still apply.
@@ -228,9 +314,10 @@ Gateway permissions and device pairing still apply.
 [Remove proxy login]  # enabled only if saved; confirmation inline
 ```
 
-The password is masked by default and is not read back into Compose. Keep/Replace
-are explicit input states; a blank field in edit mode means Keep, not an empty new
-password or removal. Username changes require a new password. Remove means remove
+New or replacement password input is masked; a saved secret is never read back into Compose. Keep/Replace
+are explicit input states; an unchanged saved-password status means Keep, not an empty new
+password or removal. Replace opens a new empty masked field; an empty replacement
+is invalid and cannot save. Username changes require a new password. Remove means remove
 only proxy credentials; it never forgets device pairing. Avoid saveable Bundle,
 navigation arguments, clipboard/copy actions, and diagnostic dumps for these fields.
 Use existing theme, insets, folding, keyboard, accessibility, and localization patterns.
